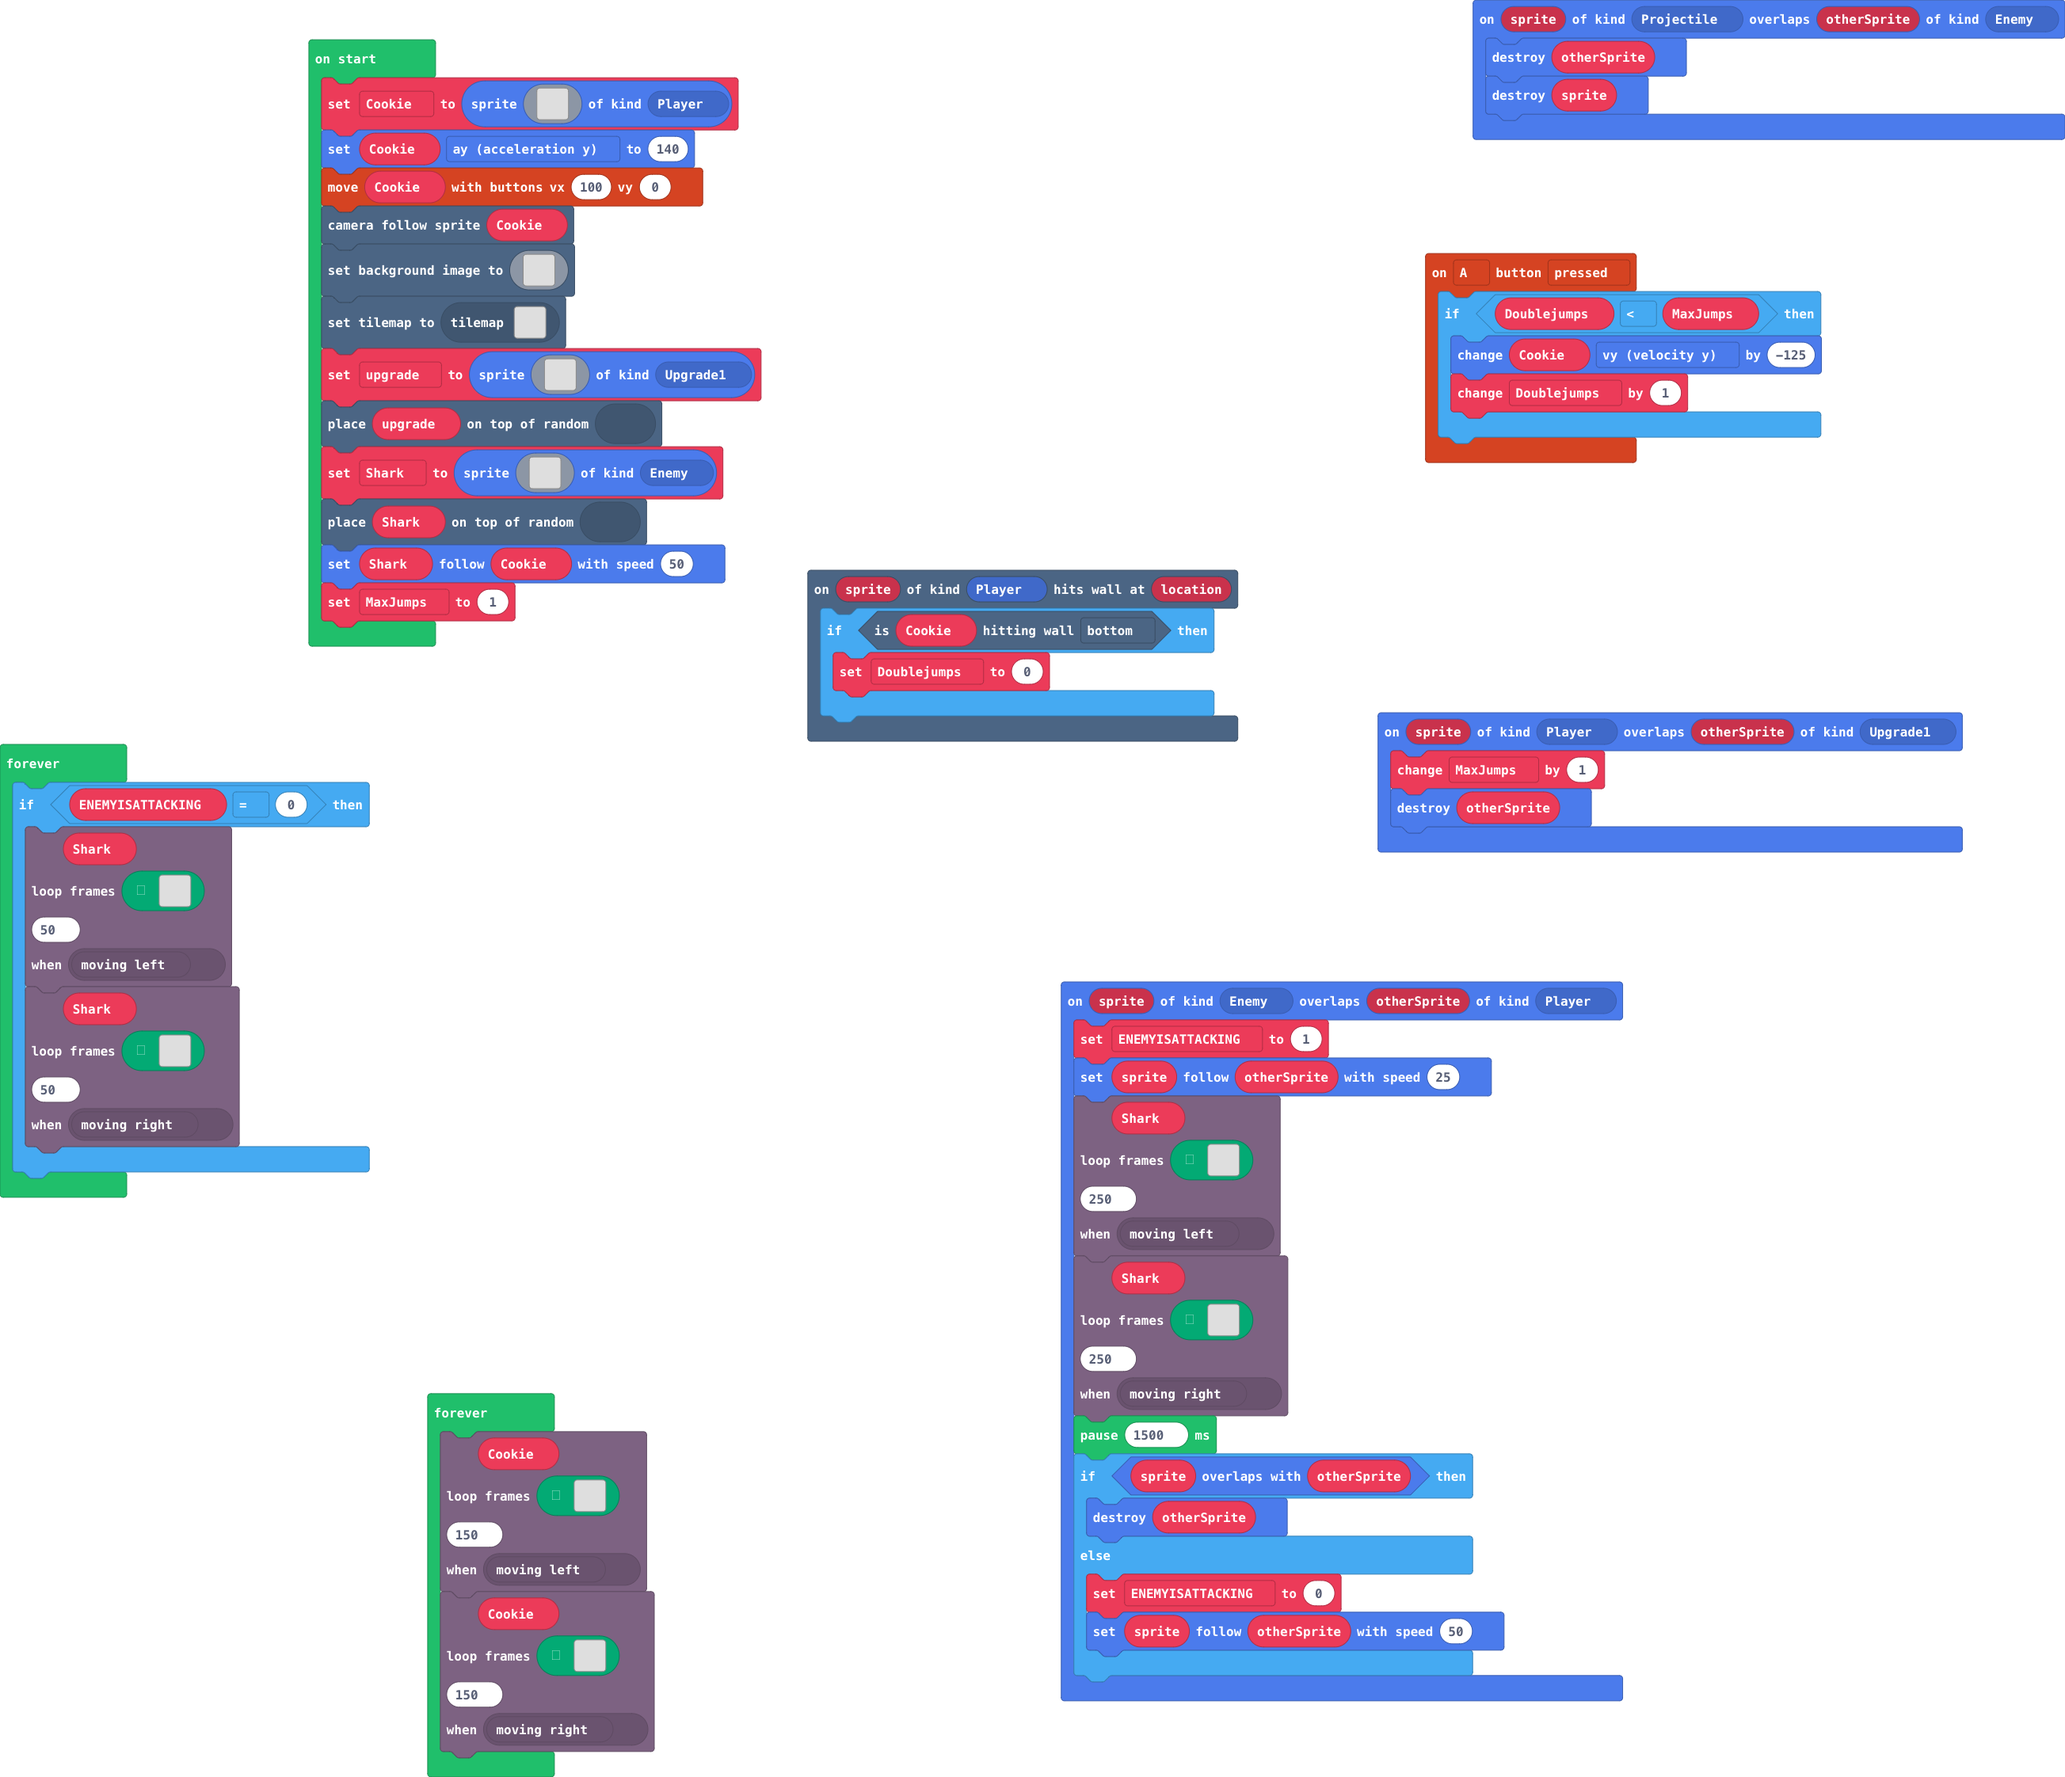
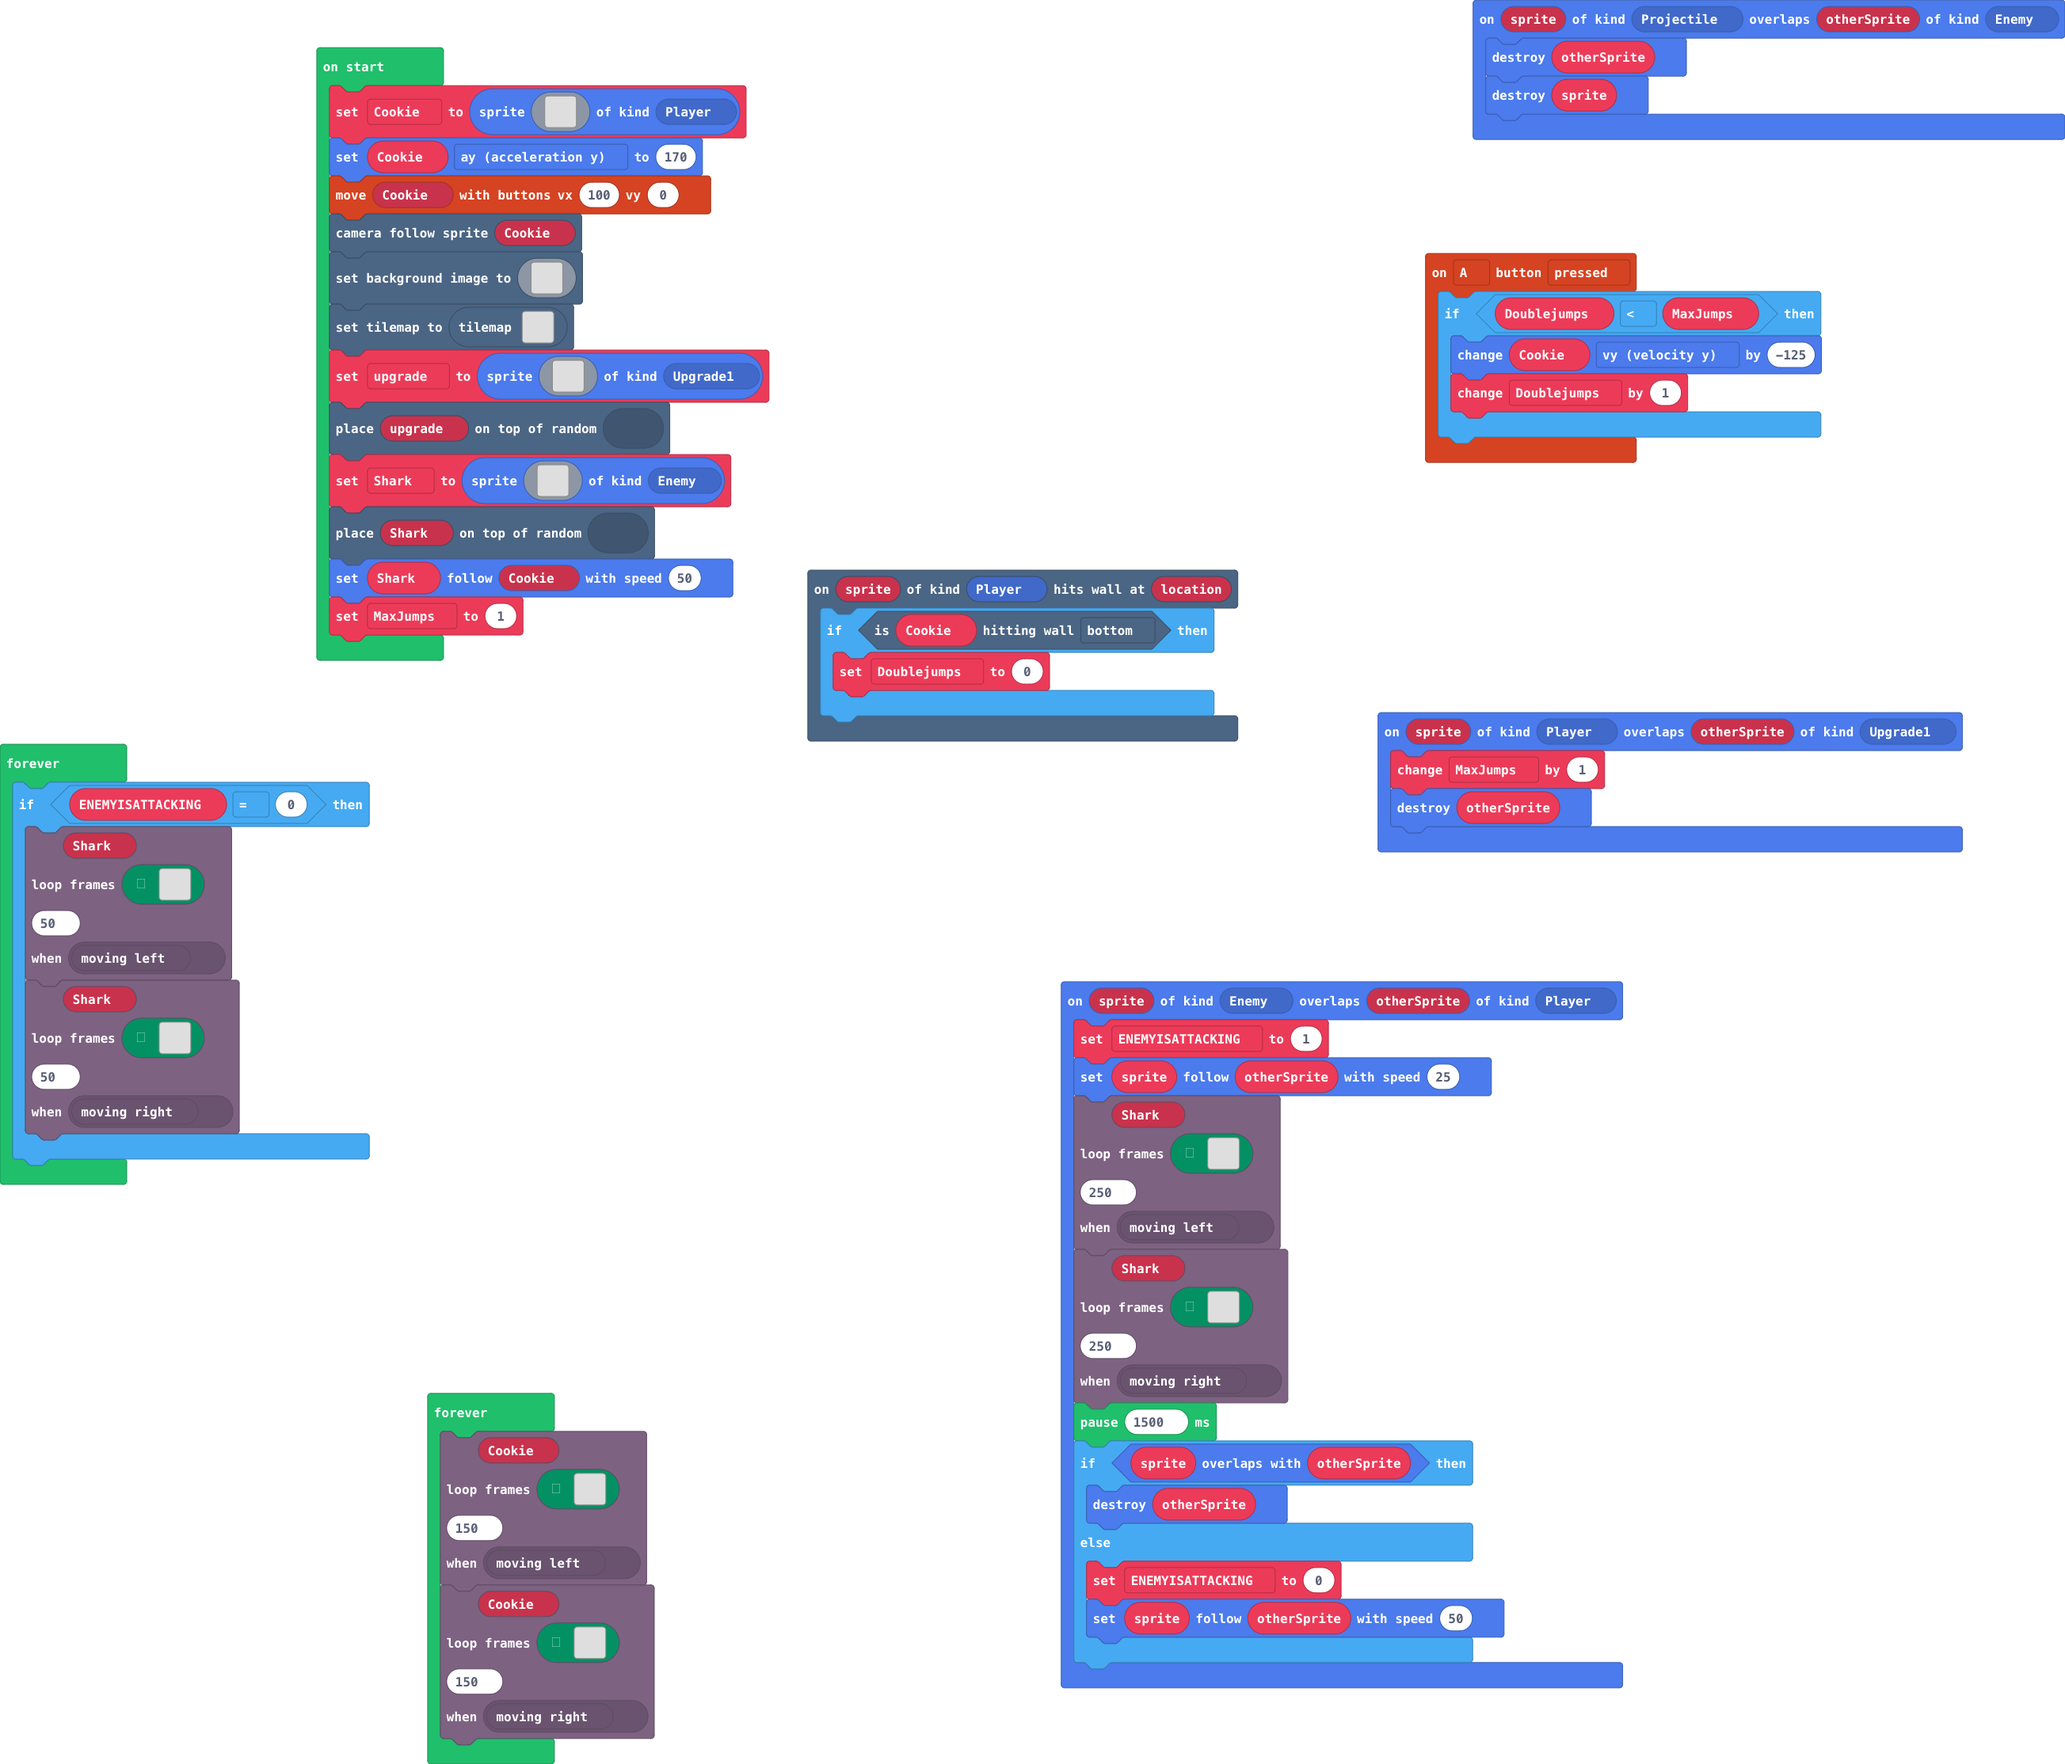
Update main.blocks, main.ts, tilemap.g.jres, tilemap.g.ts

diff --git a/tilemap.g.ts b/tilemap.g.ts
@@ -6,6 +6,10 @@ namespace myTiles {
     export const tile2 = image.ofBuffer(hex``);
     //% fixedInstance jres blockIdentity=images._tile
     export const tile1 = image.ofBuffer(hex``);
+    //% fixedInstance jres blockIdentity=images._tile
+    export const tile4 = image.ofBuffer(hex``);
+    //% fixedInstance jres blockIdentity=images._tile
+    export const tile3 = image.ofBuffer(hex``);
 
     helpers._registerFactory("tilemap", function(name: string) {
         switch(helpers.stringTrim(name)) {
@@ -28,25 +32,44 @@ namespace myTiles {
 . . . . . . . . . . . . . . . . 
 . . . . . . . . . . . . . . . . 
 `, [myTiles.transparency16], TileScale.Sixteen);
+            case "level3":
+            case "level3":return tiles.createTilemap(hex`1000100000000000000000000000000000000000000000000000000000000000000000000000000000000000000000000000000000000000000000000000000000000000000000000000000000000000000000000000000000000000000000000000000000000000000000000000000000000000000000000000000000000000000000000000000000000000000000000000000000000000000000000000000000000000000000000000000000000000000000000000000000000000000000000000000000000000000000000000000000000000000000000000000000000000000000000000000000000000000000000000000000000000000000000000000000000000`, img`
+. . . . . . . . . . . . . . . . 
+. . . . . . . . . . . . . . . . 
+. . . . . . . . . . . . . . . . 
+. . . . . . . . . . . . . . . . 
+. . . . . . . . . . . . . . . . 
+. . . . . . . . . . . . . . . . 
+. . . . . . . . . . . . . . . . 
+. . . . . . . . . . . . . . . . 
+. . . . . . . . . . . . . . . . 
+. . . . . . . . . . . . . . . . 
+. . . . . . . . . . . . . . . . 
+. . . . . . . . . . . . . . . . 
+. . . . . . . . . . . . . . . . 
+. . . . . . . . . . . . . . . . 
+. . . . . . . . . . . . . . . . 
+. . . . . . . . . . . . . . . . 
+`, [myTiles.transparency16], TileScale.Sixteen);
             case "level2":
-            case "level2":return tiles.createTilemap(hex`4000100000000000000000000000000000000000000000000000000000000000000000000000000000000000000000000000000000000000000000000000000000000000000000000000000000000000000000000000000000000000000000000000000000000000000000000000000000000000000000000000000000000000000000000000000000000000000000000000000000000000000000000000000000000000000000000000000000000000000000000000000000000000000000000000000000000000000000000000000000000000000000000000000000000000000000000000000000000000000000000000000000000000000000000000000000000000000000000000000000000000000000000000000000000000000000000000000000000000000000000000000000000000000000000000000000000000000000000000000000000000000000000000000000000000000000000000000000000000000000000000000000000000000000000000000000000000000000000000000000000000000000000000000000000000000000000000000000000000000000000000000000000000000000000000000004000000000000000000000000000000000000000000000000000000000000000000000000000000000000000000000000000000000000000000000000000003030300000000000000000000000000000000000000000000000000000000000000000000000000000000000000000000000000000000000000000300000000000000000000000000000000000000000000000000000000000000000000000000000000000000000000030000000000000000000300000000000000000000000000000000000000000000000000000000000000000000000000000000000000000000000000000000000000000000000000000000000000000000000000000000000000000000000000000000000000000000000000000000000000000000000000000000000300000000000000000300000000000000030000000000000000000000000000000000000000000000000000000000000000000000000000000000000000000000000000000000000000000000000000000000000000000000000000000000000000000000000000000000000000000000000000000000000000000000030000000000000000000000000000000000000000000000000000000000000000000200000000000000000000000000000000000000000000000000000000000000000000000000000000000000000000000000000000000000000000000000000000000000000000000000000001010101010101010101010101010101010101010101010101010101010101010101010101010101010101010101010101010101010101010101010101010100`, img`
+            case "level2":return tiles.createTilemap(hex`4000100000000000000000000000000000000000000000000000000000000000000000000000000000000000000000000000000000000000000000000000000000000000000000000000000000000000000000000000000000000000000000000000000000000000000000000000000000000000000000000000000000000000000000000000000000000000000000000000000000000000000000000000000000000000000000000000000000000000000000000000000000000000000000000000000000000000000000000000000000000000000000000000000000000000000000000000000000000000000000000000000000000000000000000000000000000000000000000000000000000000000000000000000000000000000000000000000000000000000000000000000000000000000000000000000000000000000000000000000000000000000000000000000000000000000000000000000000000000000000000000000000000000000000000000000000000000000000000000000002020202020202020202020202020202020202020202020000000000000002020202020202020202020202020202020202020202020202020202020202020202000000000000000000000000000000000000000000000000000000000000000000000000000000000000000000000000000000000000000000000000000000000000000000000000000000000000000000000000000000000000000000000000000000000000000000000300000000000000000000000000000000000000000000000000000000000000000000000000000000000000000000000000000000000000000000000000000000000000000000000000000000000000000000000000000000000000000000000000000000000000000000000000000000000000000000000000000000000000000000000000000000000000000000000000000000000000000000000000000000000000000000000000000000000000000000000000000000000000000000000000000000000000000000000000000000000000000002020202020202020202020000000000000202020202020202020202020202020202020200000000000000020202020202020202020202020202020202000000000000000000000000000000000000000000000000000000000000000000000000000000000000000000000000000000000000000100000000000000000000000000000000000000000000000000000000000000000000000000000000000000000000000000000000000000000000000000000000000000000000000000000002020202020202020202020202020202020202020202020202020202020202020202020202020202020202020202020202020202020202020202020202020202`, img`
 ................................................................
 ................................................................
 ................................................................
 ................................................................
 ................................................................
 ................................................................
+22222222222222222222222.......2222222222222222222222222222222222
 ................................................................
-...............................................222..............
-..........................................2.....................
-.........................2.........2............................
 ................................................................
-.....................2........2.......2.........................
 ................................................................
-..................2.............................................
 ................................................................
-222222222222222222222222222222222222222222222222222222222222222.
-`, [myTiles.transparency16,sprites.builtin.forestTiles12,myTiles.tile1,sprites.builtin.oceanDepths0,myTiles.tile2], TileScale.Sixteen);
+................................................................
+22222222222......2222222222222222222.......222222222222222222...
+................................................................
+................................................................
+2222222222222222222222222222222222222222222222222222222222222222
+`, [myTiles.transparency16,myTiles.tile1,myTiles.tile3,myTiles.tile2], TileScale.Sixteen);
         }
         return null;
     })
@@ -58,6 +81,10 @@ namespace myTiles {
             case "tile2":return tile2;
             case "myTile":
             case "tile1":return tile1;
+            case "myTile2":
+            case "tile4":return tile4;
+            case "myTile1":
+            case "tile3":return tile3;
         }
         return null;
     })

diff --git a/main.ts b/main.ts
@@ -303,7 +303,7 @@ Cookie = sprites.create(img`
     . . . 1 1 . . . . . 1 1 . . . 
     . . . . . 1 1 1 1 1 . . . . . 
     `, SpriteKind.Player)
-Cookie.ay = 140
+Cookie.ay = 170
 controller.moveSprite(Cookie, 100, 0)
 scene.cameraFollowSprite(Cookie)
 scene.setBackgroundImage(img`
